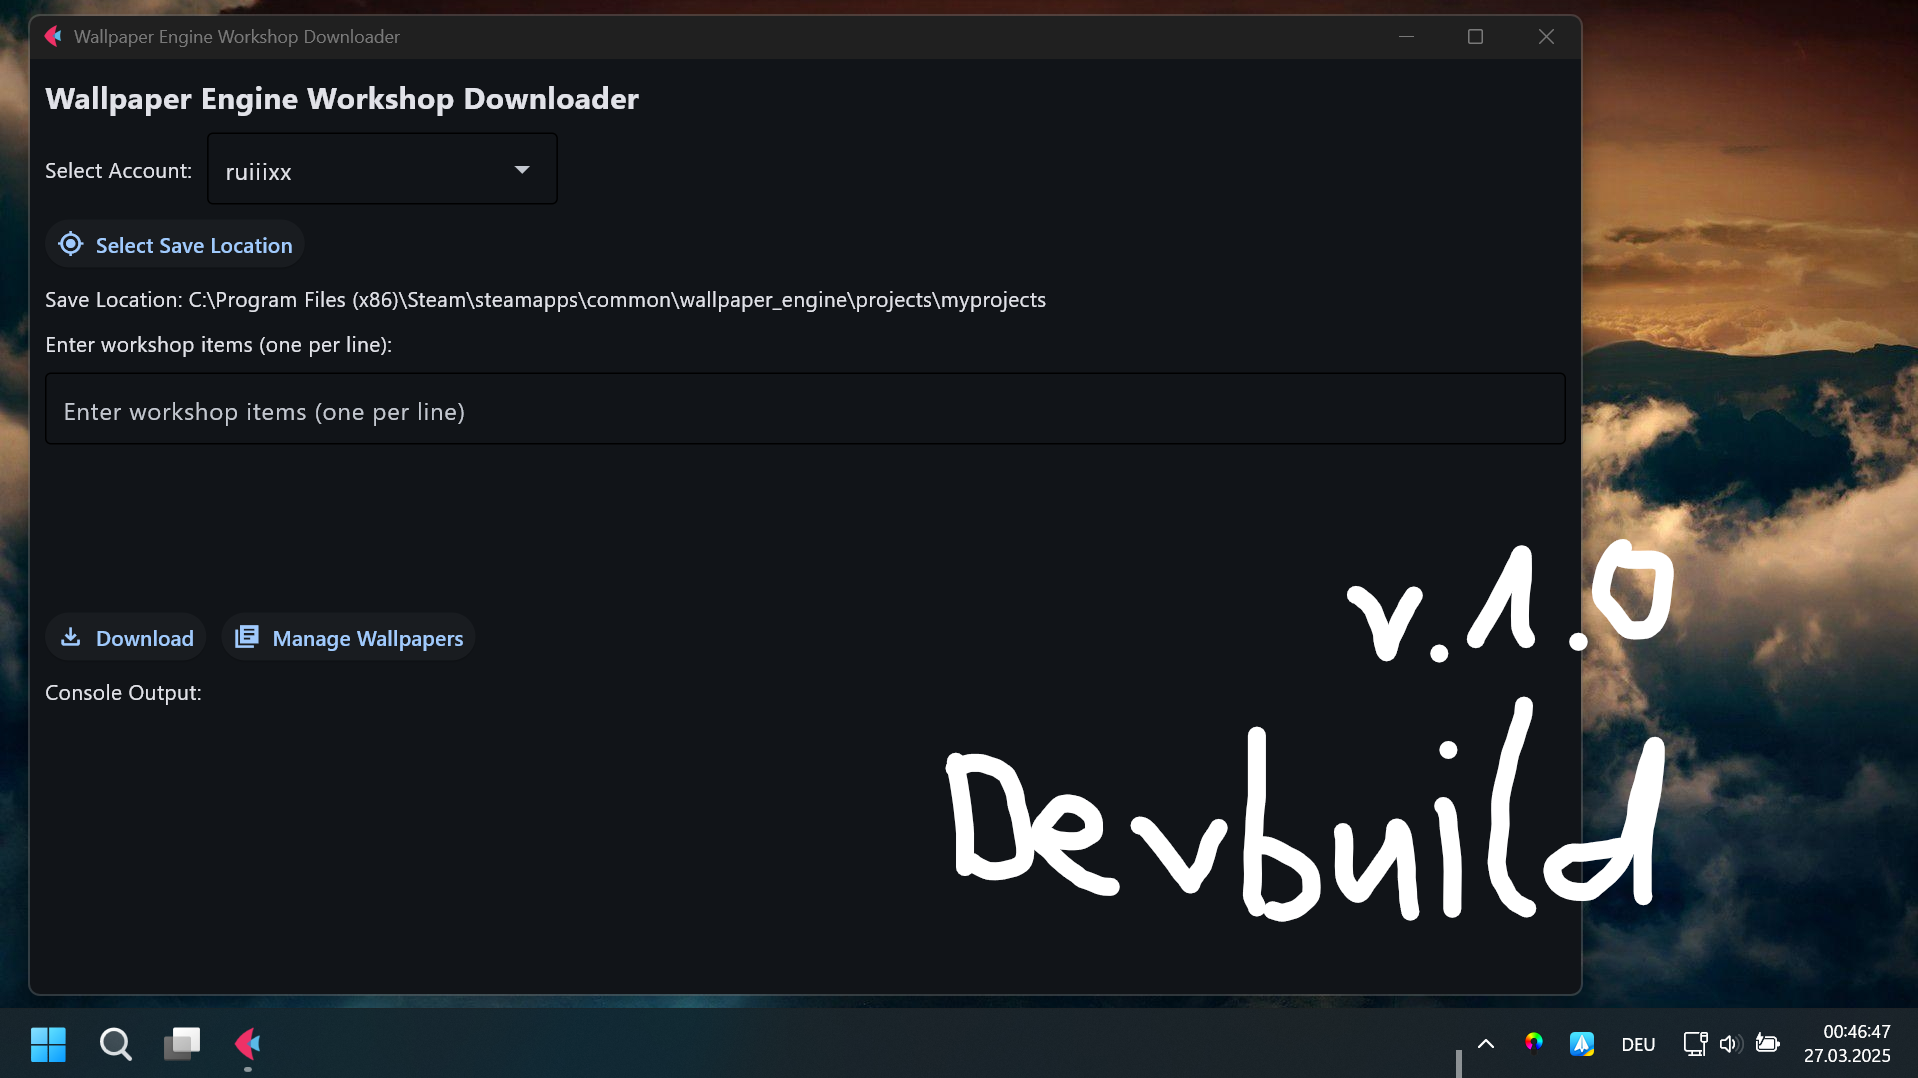
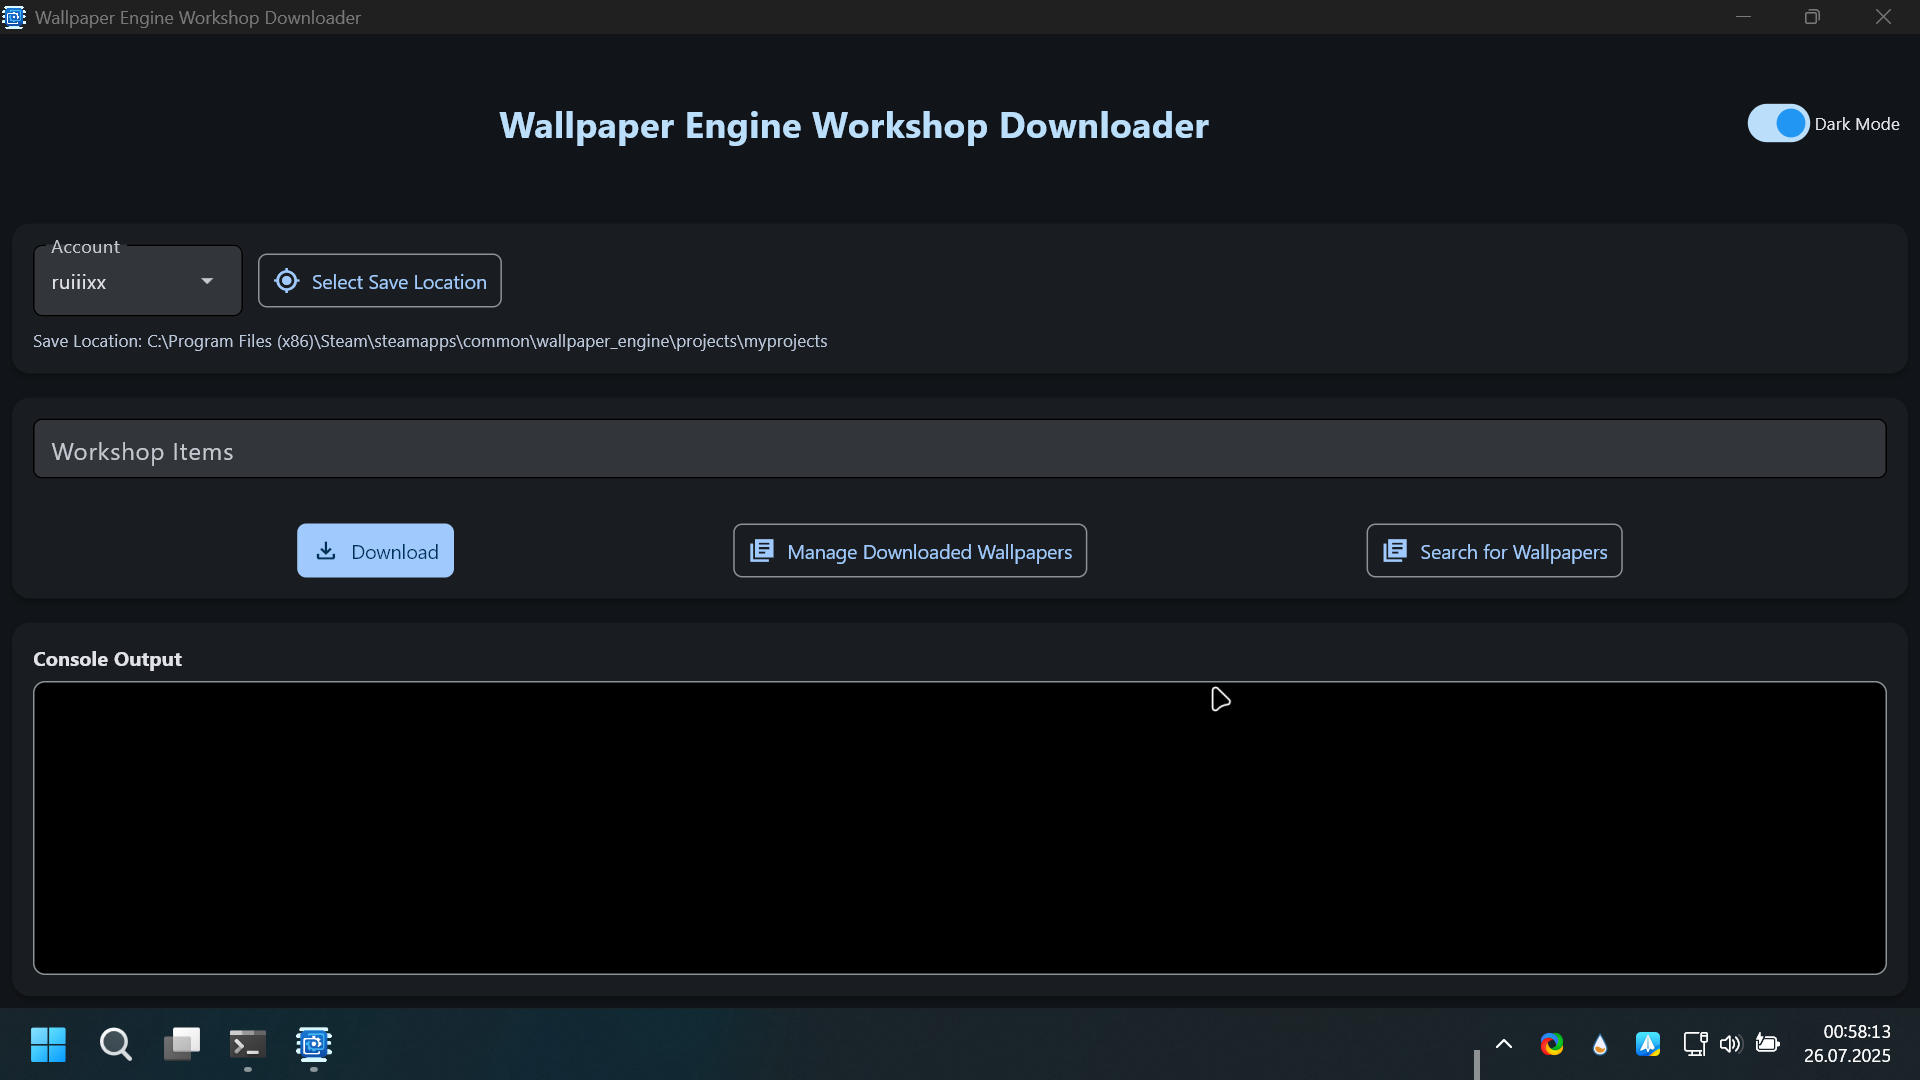
update

diff --git a/WallpaperDownloader.py b/WallpaperDownloader.py
@@ -6,6 +6,7 @@ import re
 import os
 import winreg  # Required for Windows registry access
 import json
+import sys
 
 # Global Variables
 save_location = "Not set"
@@ -98,16 +99,57 @@ def main(page: ft.Page):
         visual_density=ft.VisualDensity.COMFORTABLE,
     )
 
+    # Use sys._MEIPASS for asset paths if running as a bundled app
+    if hasattr(sys, "_MEIPASS"):
+        BASE_DIR = sys._MEIPASS
+    else:
+        BASE_DIR = os.path.dirname(os.path.abspath(__file__))
+
+    ASSETS_DIR = os.path.join(BASE_DIR, "assets")
+    favicon_path = os.path.join(ASSETS_DIR, "favicon.ico")
+    
+    # Fallback paths for favicon
+    favicon_fallback_paths = [
+        os.path.join(ASSETS_DIR, "favicon.png"),
+        os.path.join(BASE_DIR, "favicon.ico"),
+        os.path.join(BASE_DIR, "favicon.png"),
+        os.path.join(os.path.dirname(BASE_DIR), "assets", "favicon.ico"),
+        os.path.join(os.path.dirname(BASE_DIR), "assets", "favicon.png")
+    ]
+
+    # Find the best available icon
+    icon_path = None
+    if os.path.exists(favicon_path):
+        icon_path = favicon_path
+    else:
+        for fallback_path in favicon_fallback_paths:
+            if os.path.exists(fallback_path):
+                icon_path = fallback_path
+                break
+
     # Window properties
     page.title = "Wallpaper Engine Workshop Downloader"
+    page.window_title = "Wallpaper Engine Workshop Downloader"
     page.window_title_bar_hidden = False
     page.window_title_bar_buttons_hidden = False
     page.window_width = 900
     page.window_height = 850
     page.window_min_width = 600
     page.window_min_height = 600
-    page.window_icon = os.path.abspath("./assets/favicon.png")  # Ensure absolute path for icon
-    page.icon = os.path.abspath("./assets/favicon.png")  # Set taskbar icon (Flet uses this for general app icon)
+    page.window_resizable = True
+    page.window_center = True
+    page.window_maximizable = True
+    page.window_always_on_top = False
+    
+    # Set window icon, app icon, and tray icon (if supported)
+    if icon_path:
+        page.window_icon = icon_path
+        page.icon = icon_path
+        try:
+            page.tray_icon = icon_path  # For Flet >=0.14.0, sets Windows tray/taskbar icon
+        except Exception:
+            pass
+    
     page.padding = 0
     page.spacing = 0
 
@@ -154,6 +196,12 @@ def main(page: ft.Page):
         save_theme_mode(new_mode)
         # Update console background color after theme change
         output.bgcolor = get_console_bg()
+        # Update page gradient
+        page.gradient = ft.LinearGradient(
+            begin=ft.alignment.top_left,
+            end=ft.alignment.bottom_right,
+            colors=[ft.Colors.WHITE, ft.Colors.BLUE_100] if page.theme_mode == ft.ThemeMode.LIGHT else [ft.Colors.BLACK, ft.Colors.BLUE_GREY_900],
+        )
         page.update()
 
     theme_toggle = ft.Switch(
@@ -292,20 +340,6 @@ def main(page: ft.Page):
         ),
     )
 
-    # --- Layout ---
-    # Remove card/container backgrounds so the gradient shows through
-    def get_card(content, padding=14, margin=8, bgcolor=None):
-        return ft.Card(
-            content=ft.Container(
-                content=content,
-                padding=padding,
-                bgcolor=None,  # No background, let the page gradient show
-                border_radius=10,
-            ),
-            elevation=3,
-            margin=margin,
-        )
-
     # Set the page background gradient
     page.bgcolor = None
     page.gradient = ft.LinearGradient(
@@ -355,4 +389,5 @@ def main(page: ft.Page):
         ], spacing=0, expand=True),
     )
 
-ft.app(target=main)
+if __name__ == "__main__":
+    ft.app(target=main)
